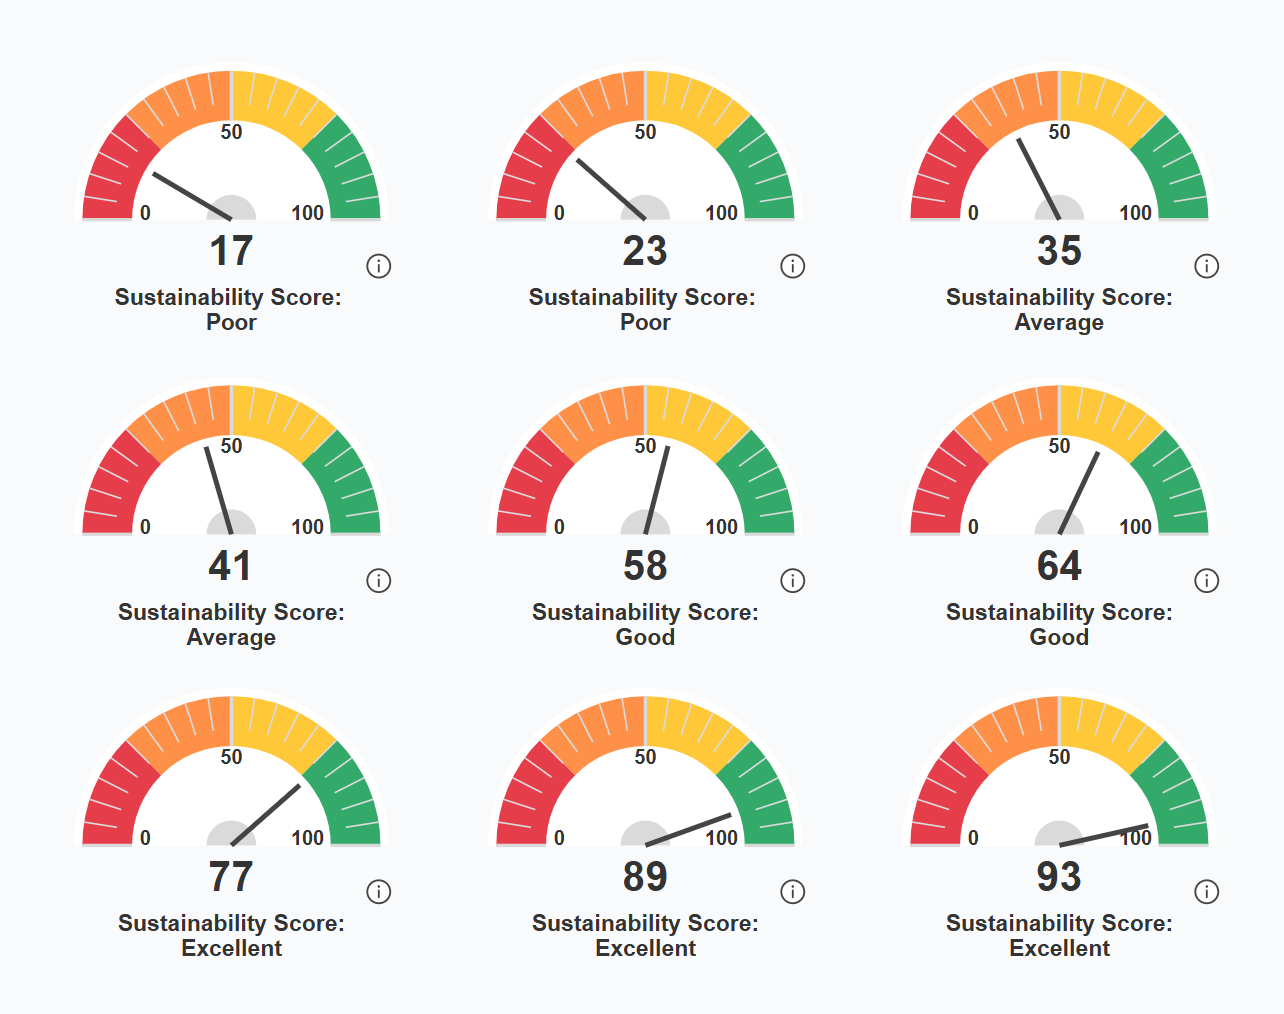
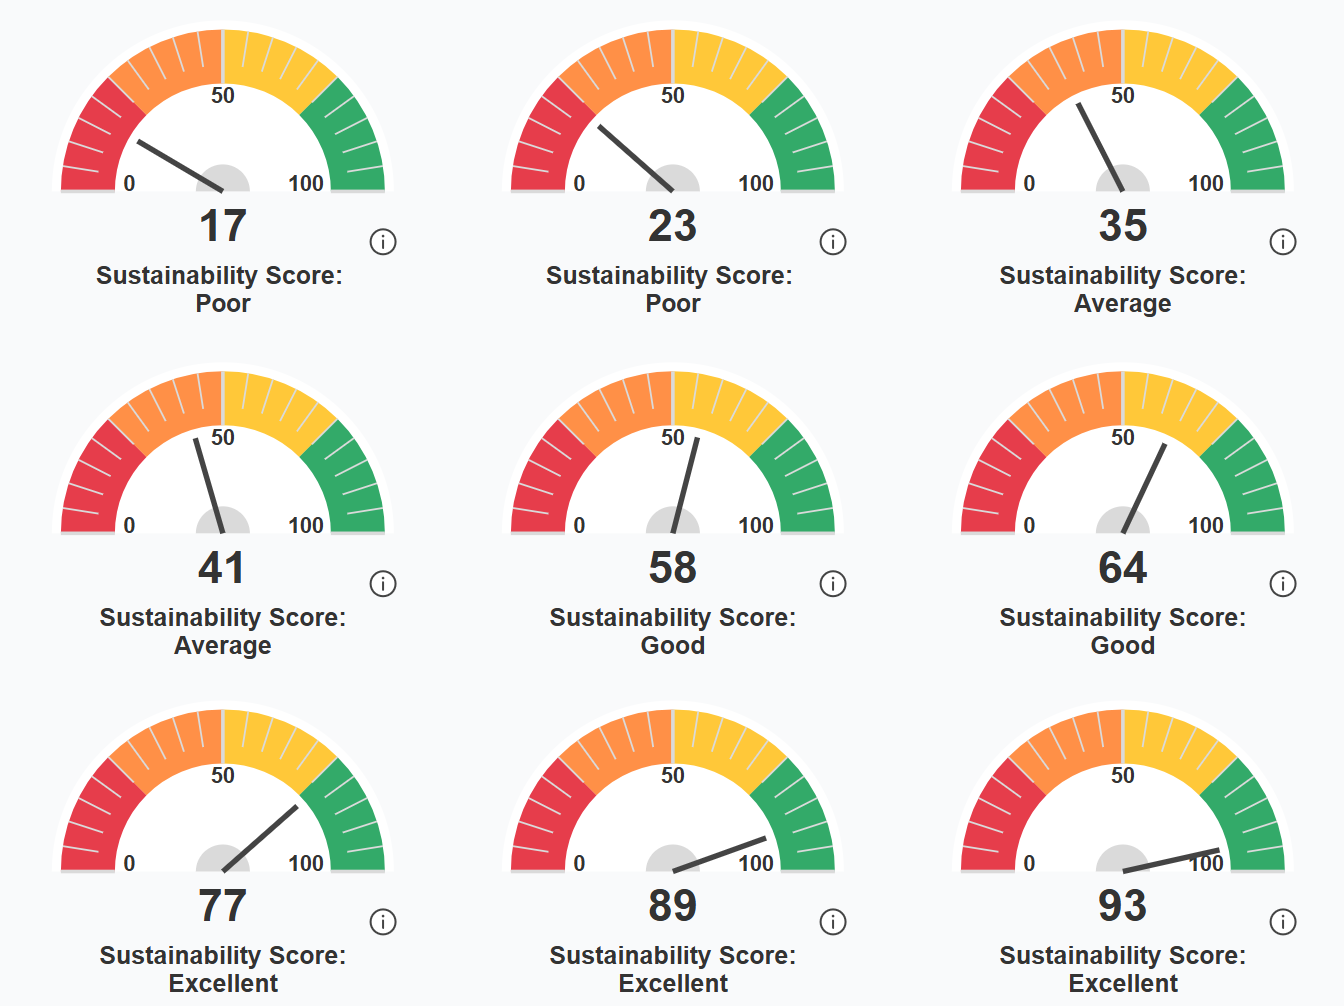
Add sustainability gauge bins: Poor, Average, Good, Excellent ranges

diff --git a/src/components/SustainabilityGauge.tsx b/src/components/SustainabilityGauge.tsx
@@ -6,7 +6,7 @@ function clamp(n: number, min: number, max: number) {
   return Math.max(min, Math.min(max, n));
 }
 
-// Map 0–100 to 9 bins 
+// Map 0–100 to 9 bins
 function scoreToBin(score: number) {
   const s = clamp(score, 0, 100);
   const bin = Math.floor(s / (100 / 9));
@@ -16,23 +16,30 @@ function scoreToBin(score: number) {
 export default function SustainabilityGauge({
   score,
   width = 360,
-  aspect = 1.30, 
 }: {
   score: number;
   width?: number;
-  aspect?: number;
 }) {
   const bin = scoreToBin(score);
 
-  // 3x3 grid:
   const cols = 3;
-  const row = Math.floor(bin / cols); 
-  const col = bin % cols;  
+  const rows = 3;
 
-  const posX = col === 0 ? "0%" : col === 1 ? "50%" : "100%";
-  const posY = row === 0 ? "0%" : row === 1 ? "50%" : "100%";
+  const row = Math.floor(bin / cols);
+  const col = bin % cols;
 
-  const height = Math.round(width / aspect);
+  // 1344/3 = 448 width, 1006/3 = 335.33 length
+  const TILE_W = 448;
+  const TILE_H = 335.33;
+
+  // Keep same aspect ratio 
+  const height = Math.round((width * TILE_H) / TILE_W);
+
+  // cropping 
+  const bgW = width * cols;
+  const bgH = height * rows;
+  const bgX = -col * width;
+  const bgY = -row * height;
 
   return (
     <div
@@ -42,8 +49,8 @@ export default function SustainabilityGauge({
         height,
         backgroundImage: "url(/gauges/SustainabilityScore.png)",
         backgroundRepeat: "no-repeat",
-        backgroundSize: "300% 300%",
-        backgroundPosition: `${posX} ${posY}`,
+        backgroundSize: `${bgW}px ${bgH}px`,
+        backgroundPosition: `${bgX}px ${bgY}px`,
         borderRadius: 12,
       }}
     />

diff --git a/src/app/dashboard/sustainability/GaugeClient.tsx b/src/app/dashboard/sustainability/GaugeClient.tsx
@@ -4,7 +4,7 @@ import SustainabilityGauge from "@/components/SustainabilityGauge";
 
 export default function GaugeClient() {
   // demo score for now
-  const score = 64;
+  const score = 60;
 
   return (
     <div className="flex justify-center">
